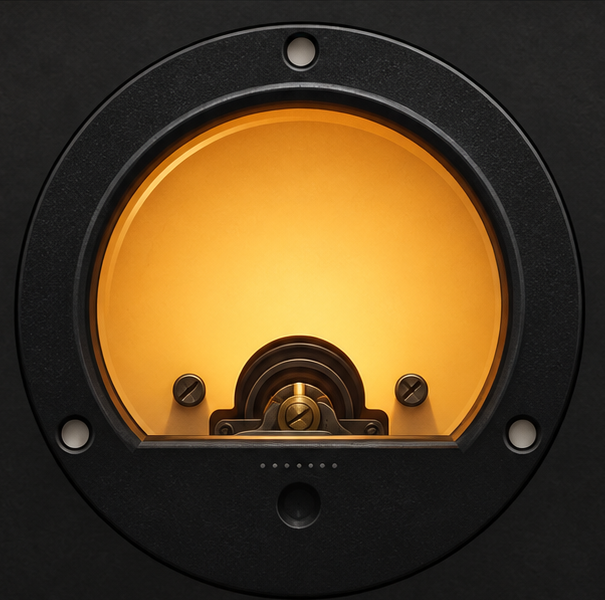
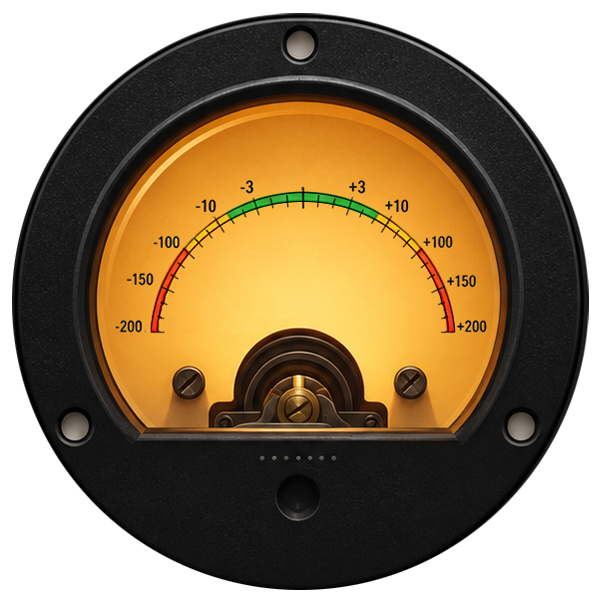
v2 art integrated + UX batch: card tiles, needle spring (ease-out R / ease-in L, friction via config.json), strobe glare for mobile, landscape column layout; art files renamed to canonical names (Kris)

diff --git a/index.html b/index.html
@@ -32,7 +32,7 @@
     --line: #d8cdb4;
     --fg: #2b2822;
     --fg-dim: #6b6252;
-    --fg-faint: #988e79;
+    --fg-faint: #87532c;
     --amber: #b3720f;
     --amber-dim: #8a5a0e;
     --green: #1a7f43;
@@ -66,14 +66,15 @@
 
   /* ---- meter face (raster art + overlay) ---- */
   .meterface { position: relative; max-width: 430px; margin: 14px auto 0; }
-  .meterface .face-img { width: 100%; display: block; border-radius: 6px; }
+  .meterface .face-img { width: 100%; display: block; filter: drop-shadow(0 0 8px rgba(0,0,0,0.75)); }
+  [data-theme="light"] .meterface .face-img { filter: drop-shadow(0 0 8px rgba(0,0,0,0.75)); }
   [data-theme="dark"] .face-img.light-only { display: none; }
   [data-theme="light"] .face-img.dark-only { display: none; }
   .meterface svg.gauge-svg { position: absolute; inset: 0; width: 100%; height: 100%; pointer-events: none; }
 
   /* 7-seg LED note window, recessed into the face */
   .ledwin {
-    position: absolute; left: 43.0%; top: 79.17%; width: 13%; height: 11.3%;
+    position: absolute; left: 39.6%; top: 78%; width: 19.7%; height: 55px;
     background: linear-gradient(180deg, #100604, #1c0c06);
     border-radius: 6px; border: 1px solid rgba(0,0,0,.9);
     box-shadow: inset 0 3px 7px rgba(0,0,0,.95), inset 0 -1px 1px rgba(255,180,90,.10), 0 2px 3px rgba(0,0,0,.7);
@@ -94,6 +95,10 @@
     background-attachment: scroll;
     min-height: 100vh;
     -webkit-transform: translateZ(0);  /* force iOS repaint of the gradient after refresh */
+  }
+  [data-theme="light"] body {
+    background:
+      radial-gradient(1200px 500px at 50% -10%, #f8f1e0 0%, var(--bg) 60%) var(--bg);
     line-height: 1.55;
   }
   .wrap { max-width: 680px; margin: 0 auto; padding: 28px 18px 60px; }
@@ -120,8 +125,18 @@
   .tab .sub { display: block; font-size: 11px; font-weight: 400; color: var(--fg-faint); }
 
   .card {
-    background: var(--panel); border: 1px solid var(--line); border-radius: var(--radius);
+    background:
+      linear-gradient(rgba(29,32,38,0.45), rgba(29,32,38,0.45)),
+      url("bg-tile-dark.png") repeat top left / 588px 292px,
+      var(--panel);
+    border: 1px solid var(--line); border-radius: var(--radius);
     padding: 22px 22px 26px; margin-bottom: 16px;
+  }
+  [data-theme="light"] .card {
+    background:
+      linear-gradient(rgba(245,239,226,0.40), rgba(245,239,226,0.40)),
+      url("bg-tile-light.png") repeat top left / 588px 294px,
+      var(--panel);
   }
   @media (max-width: 480px) { .card { padding: 18px 16px 22px; } }
 
@@ -252,6 +267,21 @@
 
   .cfgrow { display: grid; grid-template-columns: 1fr 1fr; gap: 12px; }
   @media (max-width: 480px) { .cfgrow { grid-template-columns: 1fr; } }
+
+  /* Landscape phones: stack the tuner column (meter on top, full width of the
+     card) instead of the unusable side-by-side row; meter shrinks to fit the
+     short viewport but is never cropped. */
+  @media (orientation: landscape) and (max-height: 520px) {
+    .tuner { display: flex; flex-direction: column; align-items: center; }
+    .meterface { max-width: 230px; margin: 4px auto 0; }
+    .readout { margin-top: 2px; }
+    .cents { font-size: 30px; }
+    .steplabel { margin-bottom: 4px; }
+    .card { padding: 12px 14px 16px; margin-bottom: 10px; }
+    .wrap { padding: 14px 14px 40px; }
+    .tabs { margin-bottom: 10px; }
+    h2 { font-size: 16px; }
+  }
 </style>
 </head>
 <body>
@@ -274,8 +304,8 @@
         <li><strong>The intonation wizard</strong> walks you through every step — "play the open string… now the 12th-fret harmonic… now fretted… it reads 6¢ sharp, so lengthen the string" — and iterates until every string converges.</li>
       </ul>
       <div class="btnrow">
+        <button class="btn big" id="btnStartTuner">Open the app</button>
         <button class="btn big" id="btnStartWizard">Run the tutorial</button>
-        <button class="btn ghost big" id="btnStartTuner">Open the app</button>
         <button class="btn ghost" id="btnResume" style="display:none">Resume wizard session</button>
       </div>
       <p class="sub" style="margin-top:8px">The tutorial is fully simulated — no microphone, no audio access, nothing to plug in. Just watch the meter and follow along.</p>
@@ -308,7 +338,7 @@
       <label class="lbl" for="selGuitar">Guitar</label>
       <select id="selGuitar" class="sel">
         <option value="4">4-string (bass, mandolin, ukulele)</option>
-        <option value="6">6-string</option>
+        <option value="6" selected>6-string</option>
         <option value="7">7-string</option>
         <option value="12">12-string</option>
       </select>
@@ -552,6 +582,9 @@ const CFG = {
   pass_tol_cents: 3,           // wizard: fretted-vs-harmonic "done" tolerance
   excellent_tol_cents: 1.5,    // wizard: bragging-rights tolerance
   ghost_guard_ms: 1200,        // ring-out pause after harmonic capture
+  needle_snap: 0.58,           // spring: easing step toward target (0..1, higher = firmer)
+  needle_kick: 2.4,            // velocity cap (deg/frame): full-swing rightward ≈0.55s, leftward ≈0.9s
+  needle_friction: 0.90,       // velocity retained per frame (lower = heavier drag; the "physical" feel)
   min_freq_hz: 50,             // pitch detection floor (50 = drop A 7-string)
   max_freq_hz: 1600,           // pitch detection ceiling
   yin_threshold: 0.13,         // YIN periodicity threshold (lower = more permissive)
@@ -1232,27 +1265,61 @@ function renderWizardStatic() {
 }
 
 /* ---------- UI: gauges (aligned to raster meter art, viewBox 605x600) ---------- */
-/* ---------- UI: gauges (aligned to raster meter art, viewBox 605x600) ---------- */
-const MX = 302.5, MY = 408;      // needle origin: centre, 408px down the artwork (Kris-specified)
-const LED_RC_X = 298.1, LED_RC_Y = 310.0;  // strobe-ring centre: circle THROUGH the 3 rivet centres (measured)
-const LED_RR = 256.6;              // ring radius: intersects the rivets at their centres exactly
-const RIVET_ANG = [270.6, 150.4, 29.4];    // rivet angles on the ring (deg; 0 = 3 o'clock)
-const LV_DOT_XS = [262.2, 274.5, 286.5, 298.6, 310.5, 321.7, 334.0];  // the artwork's 7 gray dots
-const LV_DOT_Y = 465.2;                       // (measured) — lit overlays drawn exactly on them
+const MX = 300, MY = 410;        // needle origin: brass bearing centre, v2 art (Kasa fits + blob agree, 2026-09-15)
+const LED_RC_X = 297.0, LED_RC_Y = 312.4;  // strobe-ring centre: circle THROUGH the 3 rivet centres (v2 mean, both themes)
+const LED_RR = 255.3;              // ring radius: intersects the rivets at their centres exactly (v2 mean)
+const RIVET_ANG = [270.3, 151.1, 29.3];    // rivet angles on the ring (deg; 0 = 3 o'clock) — v2 measured
+const LV_DOT_XS = [261.9, 274.0, 286.1, 298.2, 310.0, 322.0, 333.9];  // the artwork's 7 gray dots (v2 light row)
+const LV_DOT_Y = 456.0;                       // v2 dot row (was 465.2 in v1 art)
 const LV_DOT_COLS = ["#4ade80", "#4ade80", "#4ade80", "#4ade80", "#e8a33d", "#ef8d53", "#f87171"];
                                    // per-dot colour fixed by position, same ramp as the level bar
 const BLADE_R = 273;               // tip radius: reaches toward the dial edge; beyond ~62 deg deflection
                                    // the tip passes BEHIND the LED ring (ring drawn after the needle)
-const SWEEP_P = 68.73, SWEEP_N = 69.72;    // degrees each side: outer edge rests against the stop screws'
-                                   // outer surface (+0.5px clearance), re-solved 2026-09-13 from screw
-                                   // centres (108.5,-17) & (-113.5,-17) from origin — art (411,391) &
-                                   // (189,391), measured from the dark art (tops y374); screw r=17,
-                                   // blade taper half-width 5.3 at that radius
-const MECH_CLIP = "M 215 445 L 215 411 L 220 409 L 225 409 L 230 409 L 235 389 L 240 373 L 245 364 L 250 358 L 255 353 L 260 349 L 265 345 L 270 342 L 275 340 L 280 339 L 285 337 L 290 337 L 295 336 L 300 336 L 305 336 L 310 337 L 315 338 L 320 339 L 325 341 L 330 343 L 335 346 L 340 350 L 345 354 L 350 360 L 355 367 L 360 377 L 365 407 L 370 409 L 375 410 L 380 410 L 385 413 L 385 445 Z";
-                                   // movement-housing silhouette (measured): the needle base hides
-                                   // behind the housing; the brass screw caps it at (302.5,390) r~12
+const SWEEP_P = 66.70, SWEEP_N = 66.80;    // degrees each side: outer edge rests against the stop screws'
+                                   // outer surface (+0.5px clearance), re-solved 2026-09-15 for the v2 art:
+                                   // screws (402.3,390.7) r17.0 & (196.7,391.0) r17.5, taper-aware
+                                   // blade half-width 5.48/5.45 at contact; solver validated by
+                                   // reproducing the v1 art's 68.73/69.72 from its documented geometry
+const MECH_CLIP = "M 213 447 L 213 403 L 220 402 L 228 402 L 235 399 L 245 397 L 355 397 L 365 399 L 372 402 L 380 404 L 387 407 L 387 447 Z M 277 410 a 23 23 0 1 0 46 0 a 23 23 0 1 0 -46 0";
+                                   // needle base hidden: bottom band behind the plate + the jewel ball
+                                   // (300,410) r23 — blade visibly plunges INTO the bearing (v2 art)
 /* asymmetric stops: positive and negative sides have their own sweep angles */
 function fracToAngle(frac) { return frac >= 0 ? frac * SWEEP_P : frac * SWEEP_N; }
+/* ---------- needle spring: tweened movement, not a frame jump ----------
+   The blade is meant to read as a real d'Arsonval movement (Kris): it is never
+   teleported. A single tween loop eases the displayed angle toward the last
+   commanded angle: ease-OUT rightward (fast attack onto a rise, like a real
+   movement slamming onto an increase), ease-IN leftward (slow release off it),
+   plus a small damped overshoot rightward for physicality. setNeedle only
+   records the target; the RAF loop below animates. Demo mode still drives
+   absolute angles through the same path. */
+const NEEDLE_IDS = ["needle", "needleT"];
+const tweens = {};   // id -> {cur, target, vel}
+for (const id of NEEDLE_IDS) tweens[id] = { cur: 0, target: 0, vel: 0 };   // seeded: spring owns needles from boot
+function needleTweenInit(id) { if (!tweens[id]) tweens[id] = { cur: 0, target: 0, vel: 0 }; return tweens[id]; }
+function needleTick() {
+  for (const id of NEEDLE_IDS) {
+    const tw = tweens[id]; if (!tw) continue;
+    const grp = document.getElementById(id + "Grp");
+    if (!grp) continue;
+    const to = tw.target - tw.cur;
+    if (Math.abs(to) < 0.02 && Math.abs(tw.vel) < 0.05) {
+      if (tw.cur !== tw.target) { tw.cur = tw.target; grp.setAttribute("transform", `rotate(${tw.target.toFixed(2)} ${MX} ${MY})`); }
+      continue;
+    }
+    const goingRight = to > 0 || (to === 0 && tw.vel > 0);
+    // ease-out right (fast attack, cap allows a lively arrival), ease-in left (deliberate release)
+    const step = goingRight ? CFG.needle_snap : CFG.needle_snap * 0.55;
+    const kick = goingRight ? CFG.needle_kick : CFG.needle_kick * 0.62;
+    tw.vel = tw.vel * CFG.needle_friction + to * step;
+    tw.vel = Math.max(-kick, Math.min(kick, tw.vel));
+    tw.cur += tw.vel;
+    if ((to > 0 && tw.cur > tw.target) || (to < 0 && tw.cur < tw.target)) tw.cur = tw.target;  // never passes the target leftward
+    grp.setAttribute("transform", `rotate(${tw.cur.toFixed(2)} ${MX} ${MY})`);
+  }
+  requestAnimationFrame(needleTick);
+}
+requestAnimationFrame(needleTick);
 function polarArt(r, frac) {
   const th = (-90 + fracToAngle(frac)) * Math.PI / 180;
   return [MX + r * Math.cos(th), MY + r * Math.sin(th)];
@@ -1292,6 +1359,7 @@ function buildGaugeInto(svgEl, needleId) {
     </linearGradient>
     <filter id="${needleId}Blur" x="-20%" y="-20%" width="140%" height="140%"><feGaussianBlur stdDeviation="3.4"/></filter>
     <filter id="${needleId}Glow" x="-90%" y="-90%" width="280%" height="280%"><feGaussianBlur stdDeviation="2.6"/></filter>
+    <filter id="${needleId}Glare" x="-150%" y="-150%" width="400%" height="400%"><feGaussianBlur stdDeviation="4.5"/></filter>
     <radialGradient id="${needleId}Bevel">
       <stop offset="0.50" stop-color="#141110"/>
       <stop offset="0.62" stop-color="#4a4238"/>
@@ -1357,6 +1425,7 @@ function buildGaugeInto(svgEl, needleId) {
       `<circle class="domeon" r="5.6" fill="url(#${needleId}OnR)" opacity="0"/>` +
       `<circle class="gloss" r="5.6" fill="url(#${needleId}OffGloss)"/>` +
       `<circle class="bloom" r="8.5" fill="#e3250f" opacity="0" filter="url(#${needleId}Glow)"/>` +
+      `<circle class="glare" r="15" fill="#e3250f" opacity="0" filter="url(#${needleId}Glare)"/>` +
       `<ellipse cx="-1.6" cy="-2.2" rx="2.1" ry="1.5" fill="rgba(255,255,255,0.30)"/>` +
       `</g>`;
   }
@@ -1371,7 +1440,9 @@ function setNeedle(svgNeedle, c, tol) {
   // one group holds shadow+blade+highlight+bevel: a single attribute write per frame,
   // so the needle can never paint as two pieces mid-rotation
   const grp = document.getElementById(id + "Grp");
-  if (grp) grp.setAttribute("transform", `rotate(${ang.toFixed(2)} ${MX} ${MY})`);
+  const tw = tweens[id];
+  if (grp && tw) tw.target = ang;      // spring loop moves the group
+  else if (grp) grp.setAttribute("transform", `rotate(${ang.toFixed(2)} ${MX} ${MY})`);
   else {  // fallback (shouldn't happen): move the parts together
     const rot = `rotate(${ang.toFixed(2)} ${MX} ${MY})`;
     for (const part of ["", "Shadow", "Hi", "Lo"]) {
@@ -1404,8 +1475,22 @@ function updateStrobeRing(needleId, c) {
     if (d < activeCount) glow = 1 - d / activeCount;
     const dome = dot.querySelector(".domeon");
     const bloom = dot.querySelector(".bloom");
+    const glare = dot.querySelector(".glare");
     if (dome) { dome.setAttribute("fill", `url(#${needleId}${grad})`); dome.setAttribute("opacity", glow.toFixed(2)); }
     if (bloom) { bloom.setAttribute("fill", base); bloom.setAttribute("opacity", (glow * 0.55).toFixed(2)); }
+    if (glare) { glare.setAttribute("fill", base); glare.setAttribute("opacity", (glow * 0.38).toFixed(2)); }
+  }
+  // mobile glare boost: lamps are physically small on phones, so the lit ones
+  // burn hotter — same design language, higher intensity
+  const small = matchMedia("(max-width: 640px)").matches || (navigator.maxTouchPoints > 1 && innerWidth < 900);
+  for (let i = 0; i < N; i++) {
+    const dot = document.getElementById(needleId + "Led" + i);
+    if (!dot) continue;
+    const dome = dot.querySelector(".domeon");
+    if (dome && small) {
+      const g = parseFloat(dome.getAttribute("opacity") || "0");
+      dome.setAttribute("opacity", Math.min(1, g * 1.55).toFixed(2));
+    }
   }
 }
 /* ---------- 7-segment LED display ---------- */
@@ -1503,7 +1588,7 @@ function updateReadout(med, tgt, lock) {
     ledSet(document.getElementById("led7"), noteToLed(med));
   } else {
     const nd = document.getElementById("needleGrp");
-    if (nd) nd.setAttribute("transform", `rotate(0 ${MX} ${MY})`);
+    if (nd && tweens["needle"]) tweens["needle"].target = 0;   // spring glides it home — friction keeps it smooth
     updateStrobeRing("needle", 0);
     big.textContent = "–";
     big.style.color = "var(--fg-dim)";
@@ -1538,7 +1623,7 @@ function updateReadoutT(med, tgt, idx, lock) {
     ledSet(document.getElementById("led7T"), noteToLed(med));
   } else {
     const nd = document.getElementById("needleTGrp");
-    if (nd) nd.setAttribute("transform", `rotate(0 ${MX} ${MY})`);
+    if (nd && tweens["needleT"]) tweens["needleT"].target = 0;   // spring glides it home
     updateStrobeRing("needleT", 0);
     big.textContent = "–";
     big.style.color = "var(--fg-dim)";
@@ -1940,7 +2025,7 @@ window.addEventListener("pageshow", (e) => { window.scrollTo(0, 0); });
     nearest: nearestString,
     tunerTrack: tunerTrack,
     renderTunerChips: renderTunerChips,
-    cfg: CFG,
+    cfg: CFG, tweens: tweens,
   };
   });
 })();
